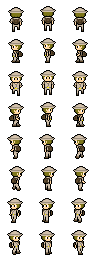
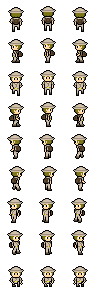
Humano mudará imagem para Cavando quando tocar num osso.

diff --git a/js/humano.js b/js/humano.js
@@ -1,5 +1,7 @@
 var frame = 0;
 var fps = 0.03;
+var carga = 0;
+var cavando = false;
 
 function Humano(x, y, imagem){
   this.nome = "Humano";
@@ -17,10 +19,24 @@ function Humano(x, y, imagem){
 //____________________________________________________________________________
 //  método que define qual comportamento a criatura irá realizar
 //____________________________________________________________________________
-Humano.prototype.comportamentos = function() {
-  var busca = this.movimenta();
-  busca.mult(1);
-  this.aplicaForca(busca);
+Humano.prototype.comportamentos = function(ossos) {
+  for (var i = ossos.length - 1; i >= 0; i--) {
+    var distancia = this.posicao.dist(ossos[i].posicao);
+    if (distancia < this.maxVelocidade + this.raio) {
+      cavando = true;
+      ossos.splice(i, 1);
+      this.aceleracao.mult(0);
+      this.velocidade.mult(0);
+    }
+  }
+
+  if (cavando) {
+
+  } else {
+    var busca = this.movimenta();
+    busca.mult(1);
+    this.aplicaForca(busca);
+  }
 }
 
 //____________________________________________________________________________
@@ -55,28 +71,34 @@ Humano.prototype.movimenta = function() {
 // método que desenha a criatura no canvas na direção da velocidade
 //____________________________________________________________________________
 Humano.prototype.show = function(){
-  var direcao = this.velocidade.heading();
   var angulo = direcao + PI / 2;
   var animFrame = 0;
   var animDirecao = 0;
 
-  // pegar linha do gráfico para a animação dependendo da direção
-  if (direcao >= -0.3875 && direcao < 0.3875){
-    animDirecao = 96; // direita
-  } else if (direcao >= 1.1625 && direcao < 1.9375){
-    animDirecao = 64; // baixo
-  } else if (direcao >= -1.9375 && direcao < -1.1625){
-    animDirecao = 0;  // cima
-  } else if (direcao >= -2.7125 && direcao < -1.9375){
-    animDirecao = 128; // esquerda-cima
-  } else if (direcao >= -1.1625 && direcao < -0.3875){
-    animDirecao = 160; // direita-cima
-  } else if (direcao >= 1.9375 && direcao < 2.7125){
-    animDirecao = 192; // esquerda-baixo
-  } else if (direcao >= 0.3875 && direcao < 1.1625){
-    animDirecao = 224; // direita-baixo
+  if (cavando){
+    animDirecao = 256; // cavando
+
   } else {
-    animDirecao = 32; // esquerda
+    var direcao = this.velocidade.heading();
+
+    // pegar linha do gráfico para a animação dependendo da direção
+    if (direcao >= -0.3875 && direcao < 0.3875){
+      animDirecao = 96; // direita
+    } else if (direcao >= 1.1625 && direcao < 1.9375){
+      animDirecao = 64; // baixo
+    } else if (direcao >= -1.9375 && direcao < -1.1625){
+      animDirecao = 0;  // cima
+    } else if (direcao >= -2.7125 && direcao < -1.9375){
+      animDirecao = 128; // esquerda-cima
+    } else if (direcao >= -1.1625 && direcao < -0.3875){
+      animDirecao = 160; // direita-cima
+    } else if (direcao >= 1.9375 && direcao < 2.7125){
+      animDirecao = 192; // esquerda-baixo
+    } else if (direcao >= 0.3875 && direcao < 1.1625){
+      animDirecao = 224; // direita-baixo
+    } else {
+      animDirecao = 32; // esquerda
+    }
   }
 
   // pegar coluna do gráfico para a animação dependendo do frame

diff --git a/js/level5.js b/js/level5.js
@@ -173,7 +173,7 @@ Level5.prototype.rodar = function(){
         }
       }
       // informações relacionadas ao humano
-      serHumano.comportamentos();
+      serHumano.comportamentos(ossos);
       serHumano.update();
       serHumano.show();
       // informações relacionadas aos ossos
